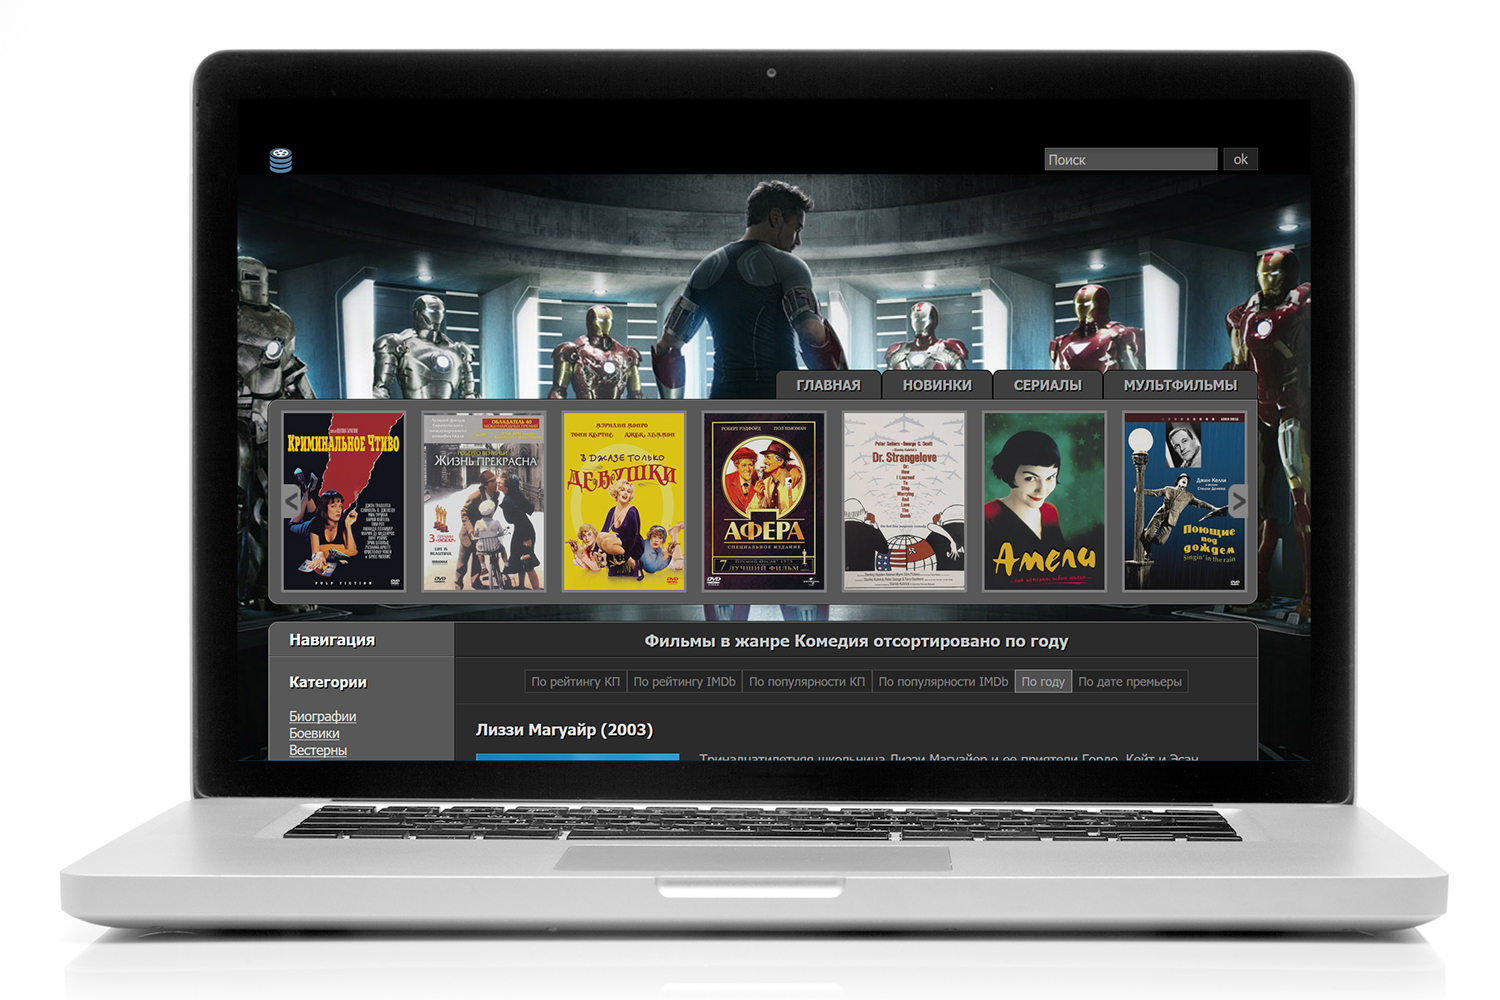
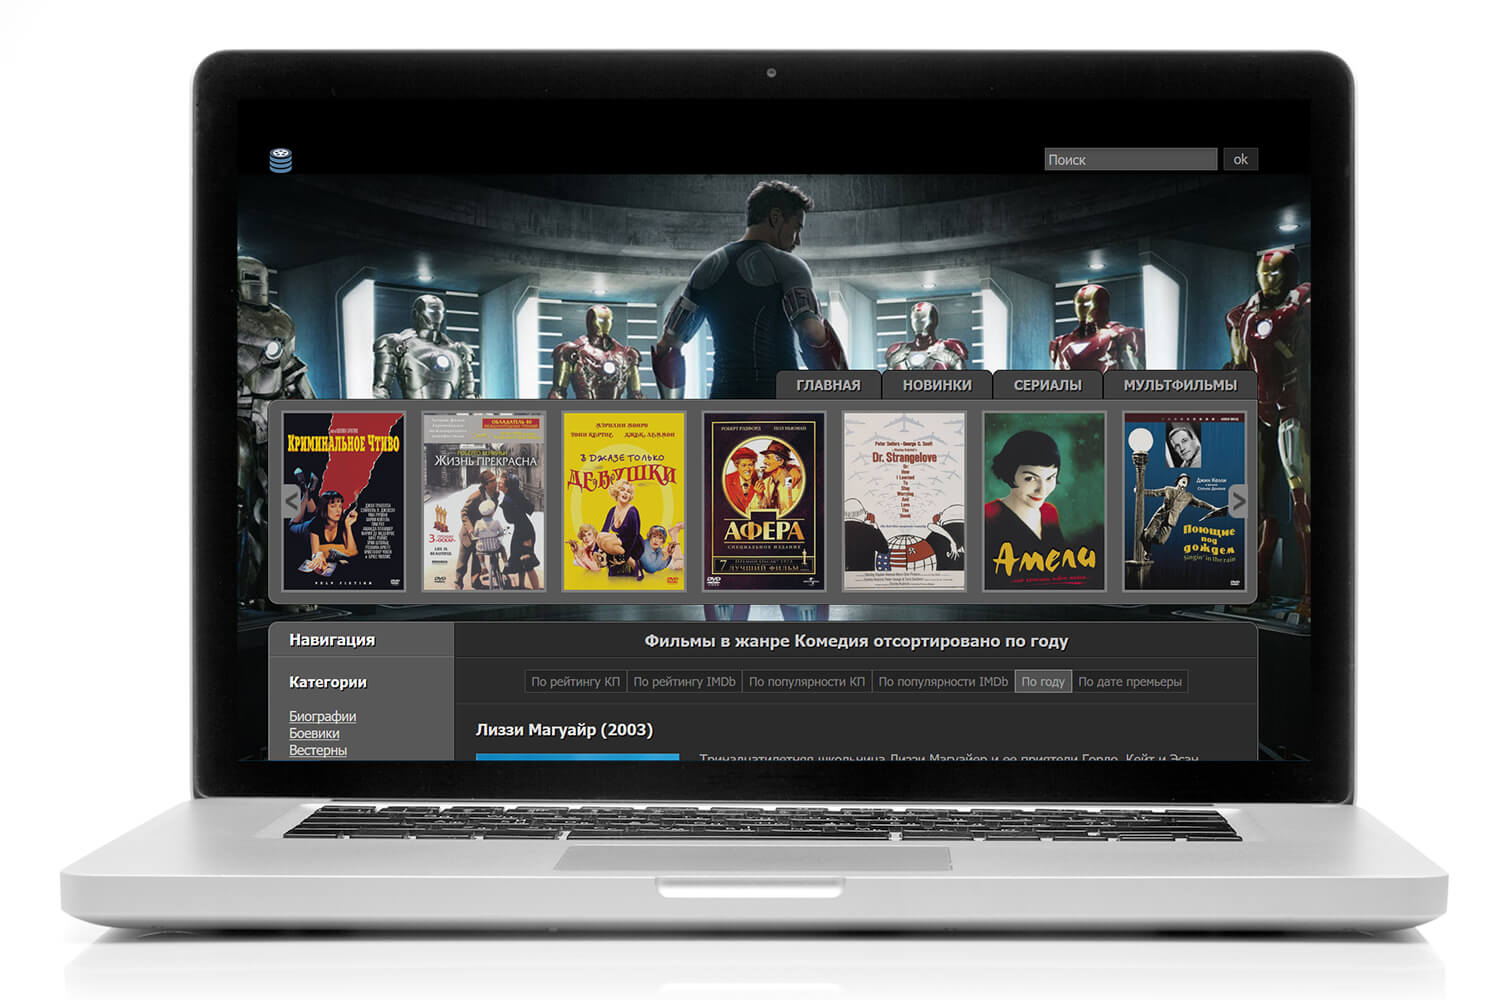
Compress image

diff --git a/README.md b/README.md
@@ -5,10 +5,14 @@
 
 ## Установка
 1. [Скачать архив](https://github.com/CinemaPress/Theme-Barney/archive/master.zip)
-2. Распаковать содержимое папки **/Theme-Barney** в папку **/themes/barney**
+2. Распаковать содержимое папки **/Theme-Barney-master** в папку **/themes/barney**
 3. Изменить название темы в админ-панели на **barney**
 
 ## Установка через установщик тем CinemaPress CMS
 ```
-~# sh theme.sh barney
+~# wget https://git.io/vVTE5 -qO theme.sh
+~# sh theme.sh [domain] barney
 ```
+###### Видео установки темы через установщик тем
+
+<a href="https://www.youtube.com/watch?v=A4HQiuEHiJw" target="_blank"><img src="https://cinemapress.org/images/admin/theme_player.png" width="600" alt="Установка темы на CinemaPress CMS"/></a>
